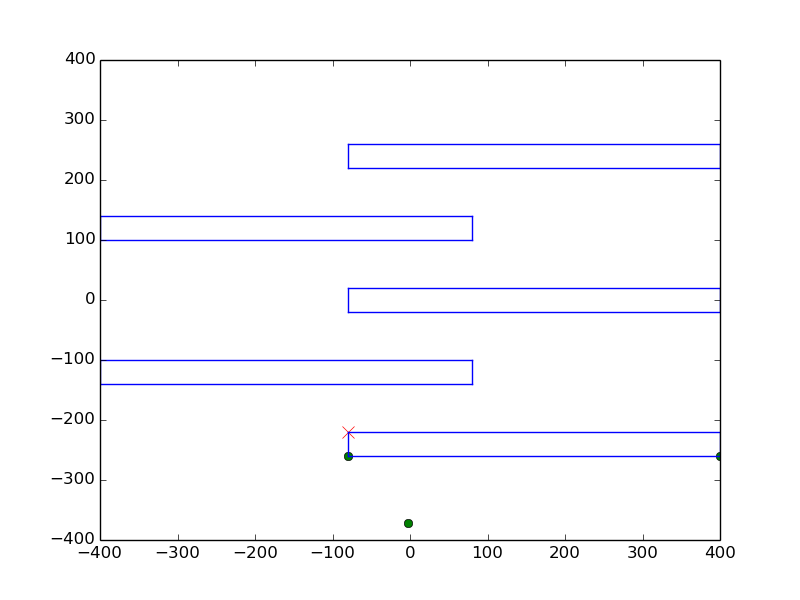
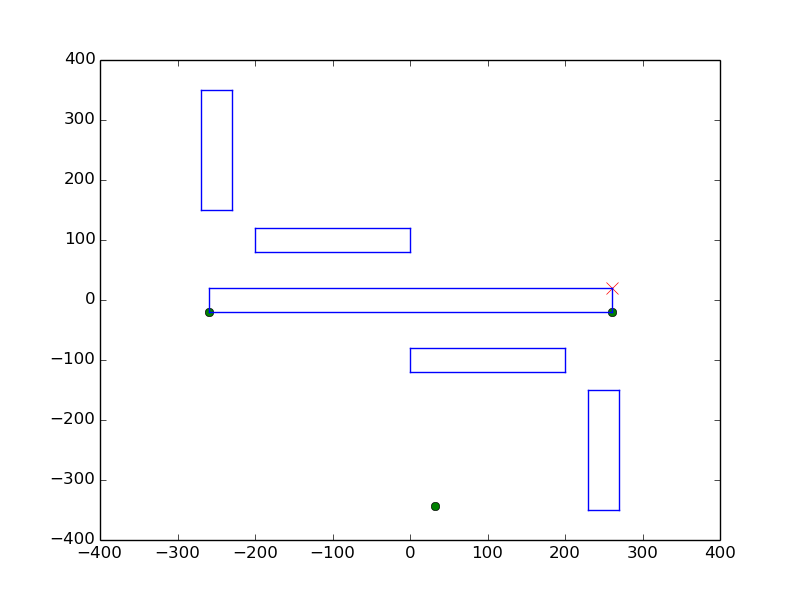
Added visualizations for A*

diff --git a/bzagents/PathFinder.py b/bzagents/PathFinder.py
@@ -27,6 +27,8 @@ class PathFinder(object):
     ########################
 
     def create_visibility_graph(self, tank_index):
+        print "Generating Visibility Graph"
+
         tank = self.bzrc.get_mytanks()[tank_index]
         self.points = []
 
@@ -180,6 +182,7 @@ class PathFinder(object):
     ##########################
 
     def get_depth_first_search_path(self):
+        print "Running Depth First Search to Get Path"
         # clear everything and add the tank's start position to the frontier
         self.clear_history()
         self.frontier.append(self.points[0])
@@ -190,7 +193,7 @@ class PathFinder(object):
         return self.path
 
     def r_dfs(self, vertex):
-        self.search_snapshots.append(Snapshot(list(self.visited), list(self.frontier), False))
+        self.search_snapshots.append(Snapshot(list(self.visited), list(self.frontier)))
         self.frontier.remove(vertex)
         self.visited.append(vertex)
 
@@ -235,21 +238,22 @@ class PathFinder(object):
     ############################
 
     def get_breadth_first_search_path(self):
+        print "Running Breadth First Search to Get Path"
+         # clear everything and add the beginning node (with the tank's start position) to the frontier
+        self.clear_history()
+        self.frontier.append(BFSNode(self.points[0], None))
+
         self.breadth_first_search()
         return self.path
 
     def breadth_first_search(self):
-        # clear everything and add the beginning node (with the tank's start position) to the frontier
-        self.clear_history()
-        self.frontier.append(BFSNode(self.points[0], None))
-
         while self.frontier:
             if self.frontier[0].my_point in self.visited:
                 # we've already visited this node, don't need to look at it again
                 self.frontier.pop(0)
                 continue
 
-            self.search_snapshots.append(Snapshot(list(self.visited), list(self.frontier), True))
+            self.search_snapshots.append(Snapshot(list(self.visited), list(self.frontier), uses_bfs_nodes=True))
             current_node = self.frontier.pop(0)
             vertex = current_node.my_point
             self.visited.append(vertex)
@@ -270,7 +274,7 @@ class PathFinder(object):
                         # If this child is the goal node, we're done!
                         last_node = BFSNode(neighbor, current_node)
                         self.frontier.append(last_node)
-                        self.search_snapshots.append(Snapshot(list(self.visited), list(self.frontier), True))
+                        self.search_snapshots.append(Snapshot(list(self.visited), list(self.frontier), uses_bfs_nodes=True))
                         self.reconstruct_path_from_last_node(last_node)
                         return
                     else:
@@ -291,6 +295,7 @@ class PathFinder(object):
     ###   A-STAR ALGORITHM   ###
     ############################
     def get_a_star_path(self):
+        print "Running A* to Get Path"
         self.a_star_search()
         return self.path
 
@@ -300,9 +305,9 @@ class PathFinder(object):
         self.frontier.put(AStarNode(self.points[0], None, 0), 0)
         last_node = None
 
-        # iterate until either the frontier is empty
+        # iterate until the frontier is empty
         while not self.frontier.empty():
-            print "Frontier size is: " + str(self.frontier.size())
+            self.search_snapshots.append(Snapshot(list(self.visited), self.frontier.getNodes(), uses_a_star_nodes=True))
             current = self.frontier.get()
             if current.my_point in self.visited:
                 continue
@@ -311,7 +316,6 @@ class PathFinder(object):
             # end immediately if the goal is found
             if self.is_goal(current.my_point):
                 last_node = current
-                print "Found the goal!"
                 break
 
             # find out which point we're dealing with
@@ -368,10 +372,16 @@ class AStarNode(object):
         self.cost = cost
 
 class Snapshot(object):
-    def __init__(self, visited, frontier, uses_nodes):
+    def __init__(self, visited, frontier, uses_bfs_nodes=False, uses_a_star_nodes=False):
         self.visited = visited
 
-        if uses_nodes:
+        # our frontier is made up of nodes or points. We only need the snapshot to contain
+        # points, so pull the points out of the nodes if needed.
+        if uses_bfs_nodes:
+            self.frontier = []
+            for node in frontier:
+                self.frontier.append(node.my_point)
+        elif uses_a_star_nodes:
             self.frontier = []
             for node in frontier:
                 self.frontier.append(node.my_point)

diff --git a/bzagents/show_path.py b/bzagents/show_path.py
@@ -75,6 +75,9 @@ def remove_old_plot_files():
     for f in filelist:
         os.remove("../plots/dfs_plots/" + f)
 
+    filelist = [ f for f in os.listdir("../plots/a_star_plots/") if f.endswith(".png") ]
+    for f in filelist:
+        os.remove("../plots/a_star_plots/" + f)
 
 def main():
     # Process CLI arguments.
@@ -106,6 +109,13 @@ def main():
 
     snapshots = path_finder.search_snapshots
     plot_snapshots(snapshots, "../plots/bfs_plots/bfs", bzrc.get_obstacles())
+
+    ### A* Visualizations ###
+    path = path_finder.get_a_star_path()
+    plot_single(path, bzrc.get_obstacles(), '../plots/a_star_plots/a_star.png')
+
+    snapshots = path_finder.search_snapshots
+    plot_snapshots(snapshots, "../plots/a_star_plots/a_star", bzrc.get_obstacles())
 
 
     print("finished")

diff --git a/bzagents/PriorityQueue.py b/bzagents/PriorityQueue.py
@@ -16,3 +16,9 @@ class PriorityQueue:
        
     def size(self):
         return len(self.elements)
+
+    def getNodes(self):
+        nodes = []
+        for elem in self.elements:
+            nodes.append(elem[1])
+        return nodes
